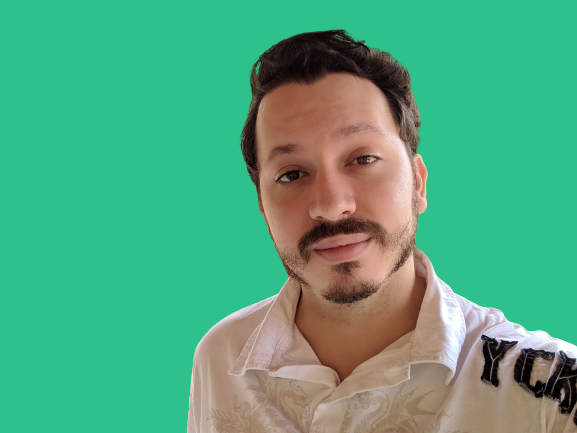
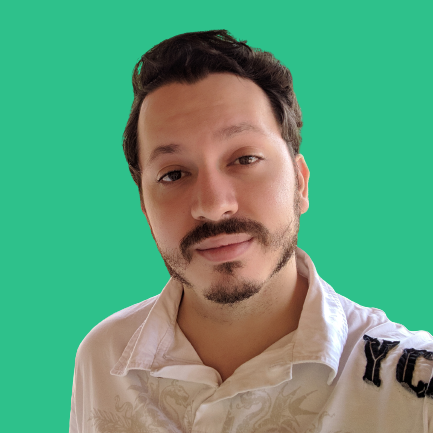
Requisito 04

diff --git a/index.html b/index.html
@@ -13,6 +13,19 @@
     </div>
     <main>
       <img id="minha_foto" src="gilson.png" alt="foto de Gilson" />
+
+      <ol id="licoes_aprendidas">
+        <li></li>
+        <li></li>
+        <li></li>
+        <li></li>
+        <li></li>
+        <li></li>
+        <li></li>
+        <li></li>
+        <li></li>
+        <li></li>
+      </ol>
     </main>
   </body>
 </html>

diff --git a/style.css b/style.css
@@ -9,4 +9,5 @@ body {
 
 #minha_foto {
   width: 300px;
+  border-radius: 50%;
 }
